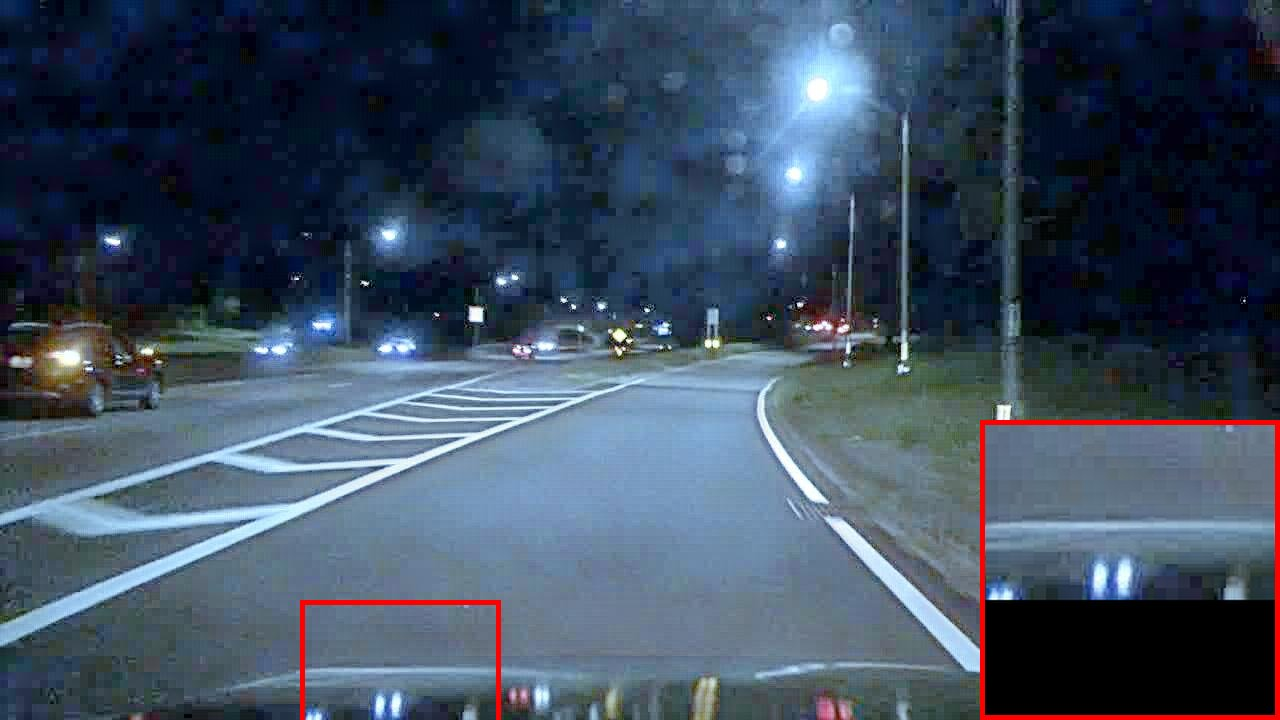
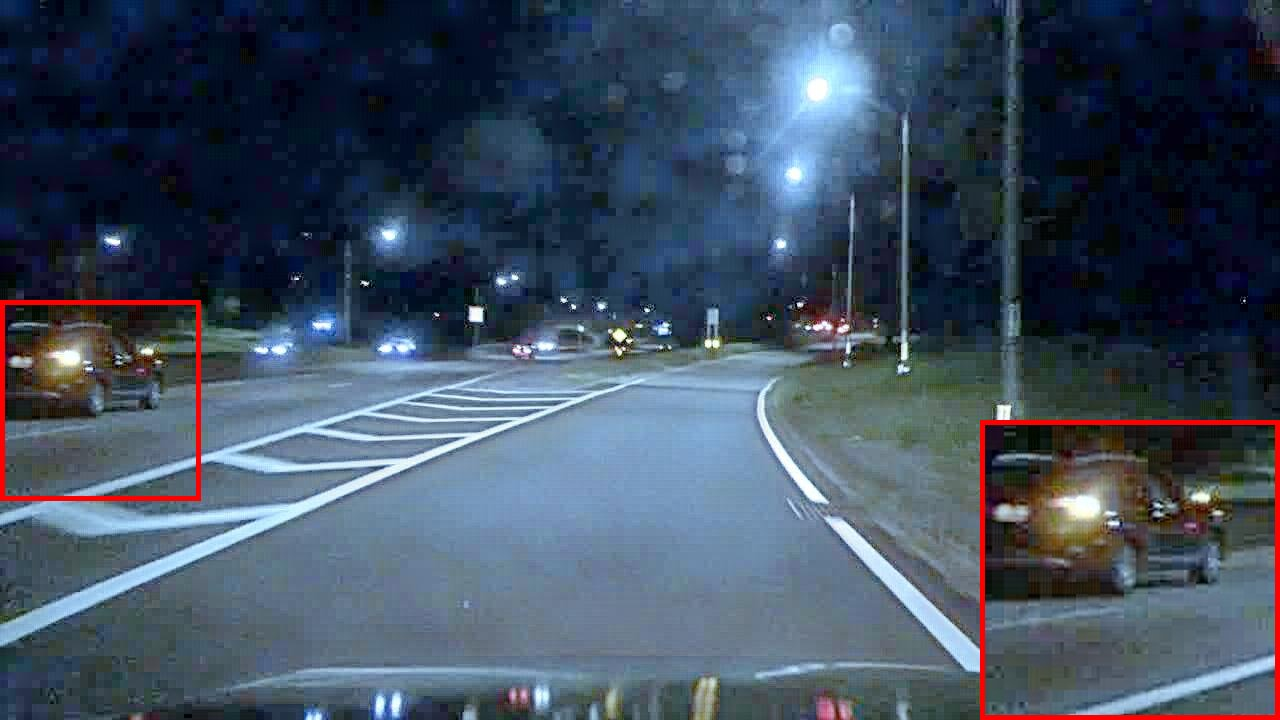
fig:public drop red box on day columns (back to plain _x15.jpg); adjust exdark box to (530,225,605,300), llvip to (612,30,812,230)

Changed region(s): [[0.75, 0.5806, 1.0, 1.0], [0.0, 0.3972, 0.1562, 0.7028], [0.2188, 0.825, 0.4062, 1.0]]

diff --git a/Template.tex b/Template.tex
@@ -259,7 +259,7 @@ Night & Output & Day & Night & Output & Day & Night & Output & Day \\
 \includegraphics[width = 0.11\linewidth, height = 0.06\linewidth]{figures/public/bdd (5).jpg} &
 \includegraphics[width = 0.11\linewidth, height = 0.06\linewidth]{figures/public/b4c86653-aafa1676_x15_box.jpg} &
 \includegraphics[width = 0.11\linewidth, height = 0.06\linewidth]{figures/public/rltnet_bdd100k_box.jpg} &
-\includegraphics[width = 0.11\linewidth, height = 0.06\linewidth]{figures/public/c5030241-68561ce7_x15_box.jpg} \\
+\includegraphics[width = 0.11\linewidth, height = 0.06\linewidth]{figures/public/c5030241-68561ce7_x15.jpg} \\
 \includegraphics[width = 0.11\linewidth, height = 0.06\linewidth]{figures/public_crop/exdark_1_x15.jpg} &
 \includegraphics[width = 0.11\linewidth, height = 0.06\linewidth]{figures/public_crop/exdark_1_bdd_1.jpg} &
 \includegraphics[width = 0.11\linewidth, height = 0.06\linewidth]{figures/public/bdd (1).jpg} &
@@ -268,7 +268,7 @@ Night & Output & Day & Night & Output & Day & Night & Output & Day \\
 \includegraphics[width = 0.11\linewidth, height = 0.06\linewidth]{figures/public/bdd (2).jpg} &
 \includegraphics[width = 0.11\linewidth, height = 0.06\linewidth]{figures/public/exdark_2015_06346_x15_box.jpg} &
 \includegraphics[width = 0.11\linewidth, height = 0.06\linewidth]{figures/public/rltnet_exdark_box.jpg} &
-\includegraphics[width = 0.11\linewidth, height = 0.06\linewidth]{figures/public/2015_00387_x15_box.jpg} \\
+\includegraphics[width = 0.11\linewidth, height = 0.06\linewidth]{figures/public/2015_00387_x15.jpg} \\
 \includegraphics[width = 0.11\linewidth, height = 0.06\linewidth]{figures/public_crop/llvip_1_x15.jpg} &
 \includegraphics[width = 0.11\linewidth, height = 0.06\linewidth]{figures/public_crop/llvip_1_bdd_3.jpg} &
 \includegraphics[width = 0.11\linewidth, height = 0.06\linewidth]{figures/public/bdd (3).jpg} &
@@ -277,7 +277,7 @@ Night & Output & Day & Night & Output & Day & Night & Output & Day \\
 \includegraphics[width = 0.11\linewidth, height = 0.06\linewidth]{figures/public/llvip (2).jpg} &
 \includegraphics[width = 0.11\linewidth, height = 0.06\linewidth]{figures/public/llvip_040192_x15_box.jpg} &
 \includegraphics[width = 0.11\linewidth, height = 0.06\linewidth]{figures/public/rltnet_llvip_box.jpg} &
-\includegraphics[width = 0.11\linewidth, height = 0.06\linewidth]{figures/public/250110_x15_box.jpg} \\
+\includegraphics[width = 0.11\linewidth, height = 0.06\linewidth]{figures/public/250110_x15.jpg} \\
 \end{tabular}
 \vspace{-.2in}
 \caption{Visual results on Bdd100k \cite{bdd100k}, ExDark \cite{exdark} and LLVIP \cite{llvip} (first, second, and third rows, respectively).}\label{fig:public}
